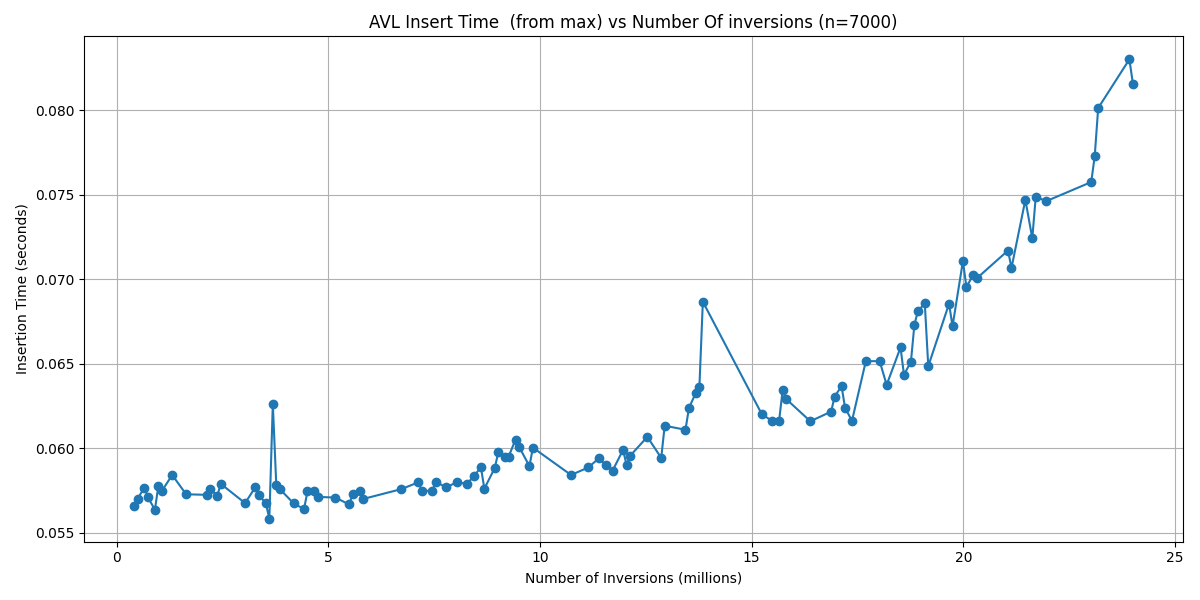
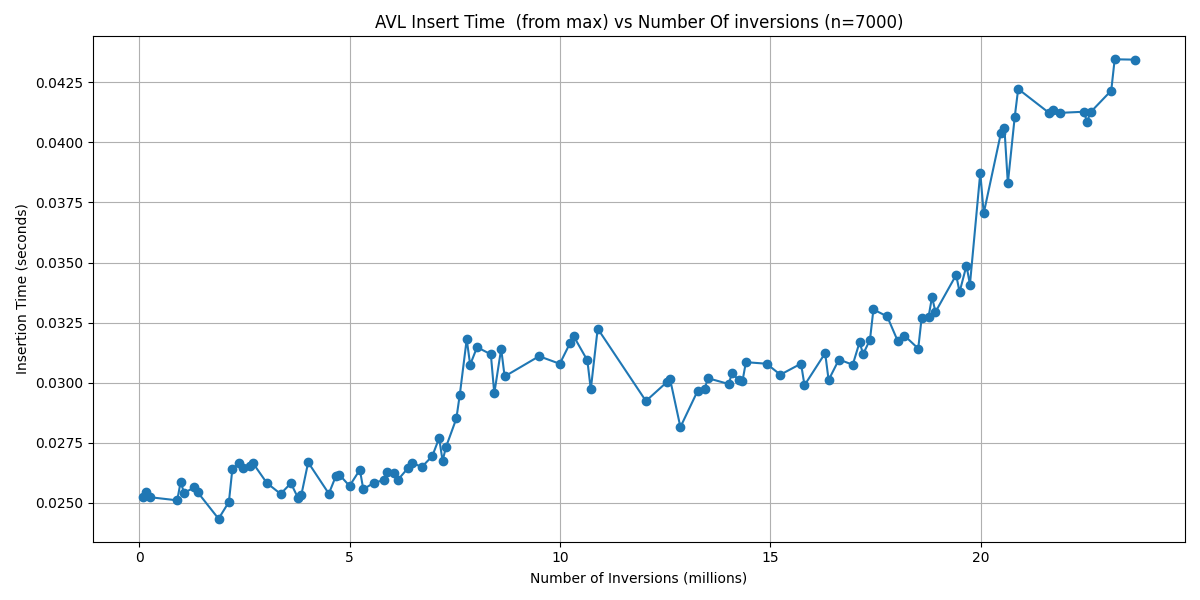
more changes for exp 3

diff --git a/second_experiment/insertion_exp.py b/second_experiment/insertion_exp.py
@@ -78,11 +78,12 @@ def plot_results(results, folder):
             for start_mode in ['root', 'max']:
                 y = [r[4] for r in data if r[0] == tree_type and r[1] == start_mode]
                 x = [r[3] for r in data if r[0] == tree_type and r[1] == start_mode]
+                # Discount the last 5 points
+                if len(x) > 5 and len(y) > 5:
+                    x = x[:-5]
+                    y = y[:-5]
                 label = f"{tree_type} ({start_mode})"
-                plt.plot(x, y, marker='o', label=label)
-                # Add labels to each point in base 10
-                for i, j in zip(x, y):
-                    plt.text(i, j, f"{j:.6f}", fontsize=8, ha='right')
+                plt.plot(x, y, label=label)  # Removed marker and point labels
         plt.xlabel('n (number of elements)')
         plt.ylabel('Average Insertion Time (seconds)')
         plt.title(f'Insertion Time vs n ({input_type.capitalize()} Data)')
@@ -99,7 +100,7 @@ def plot_results(results, folder):
 
 if __name__ == "__main__":
     import time
-    sizes_to_test = [500 * i for i in range(1, 15)] 
+    sizes_to_test = [400 * i for i in range(1, 23)] 
     start_time = time.time()
     results = run_all_experiments(sizes_to_test)
     # results = run_sorted_experiments(sizes_to_test)

diff --git a/3rd_experiment/exp_3.py b/3rd_experiment/exp_3.py
@@ -2,7 +2,7 @@ import sys
 import os
 sys.path.append(os.path.abspath(os.path.join(os.path.dirname(__file__), '..')))
 
-from avl_tree import AVLTree
+from friend_file import AVLTree
 import time
 import matplotlib.pyplot as plt
 import datetime
